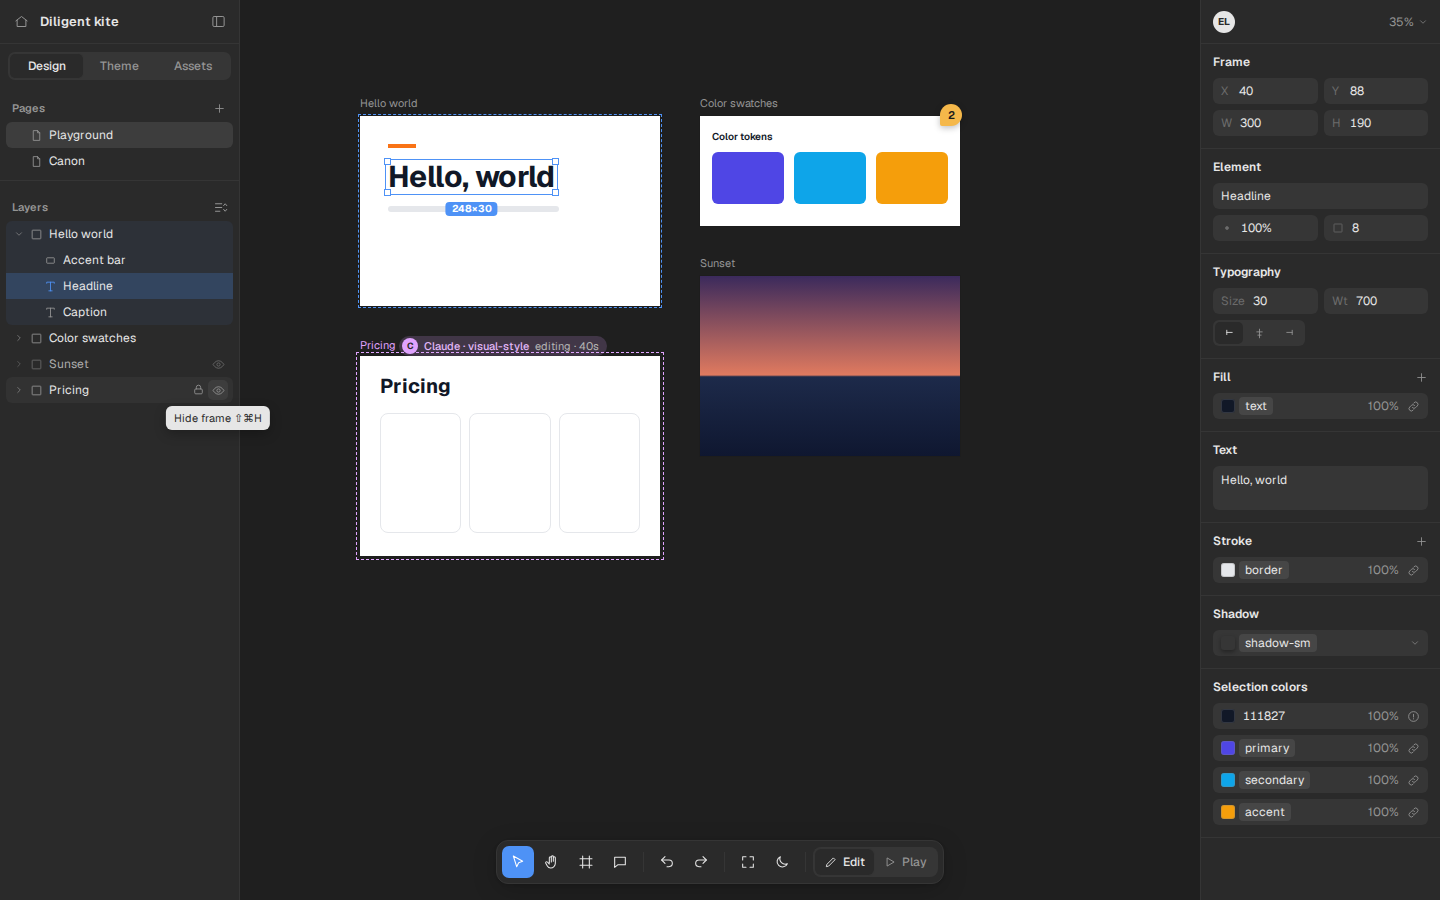
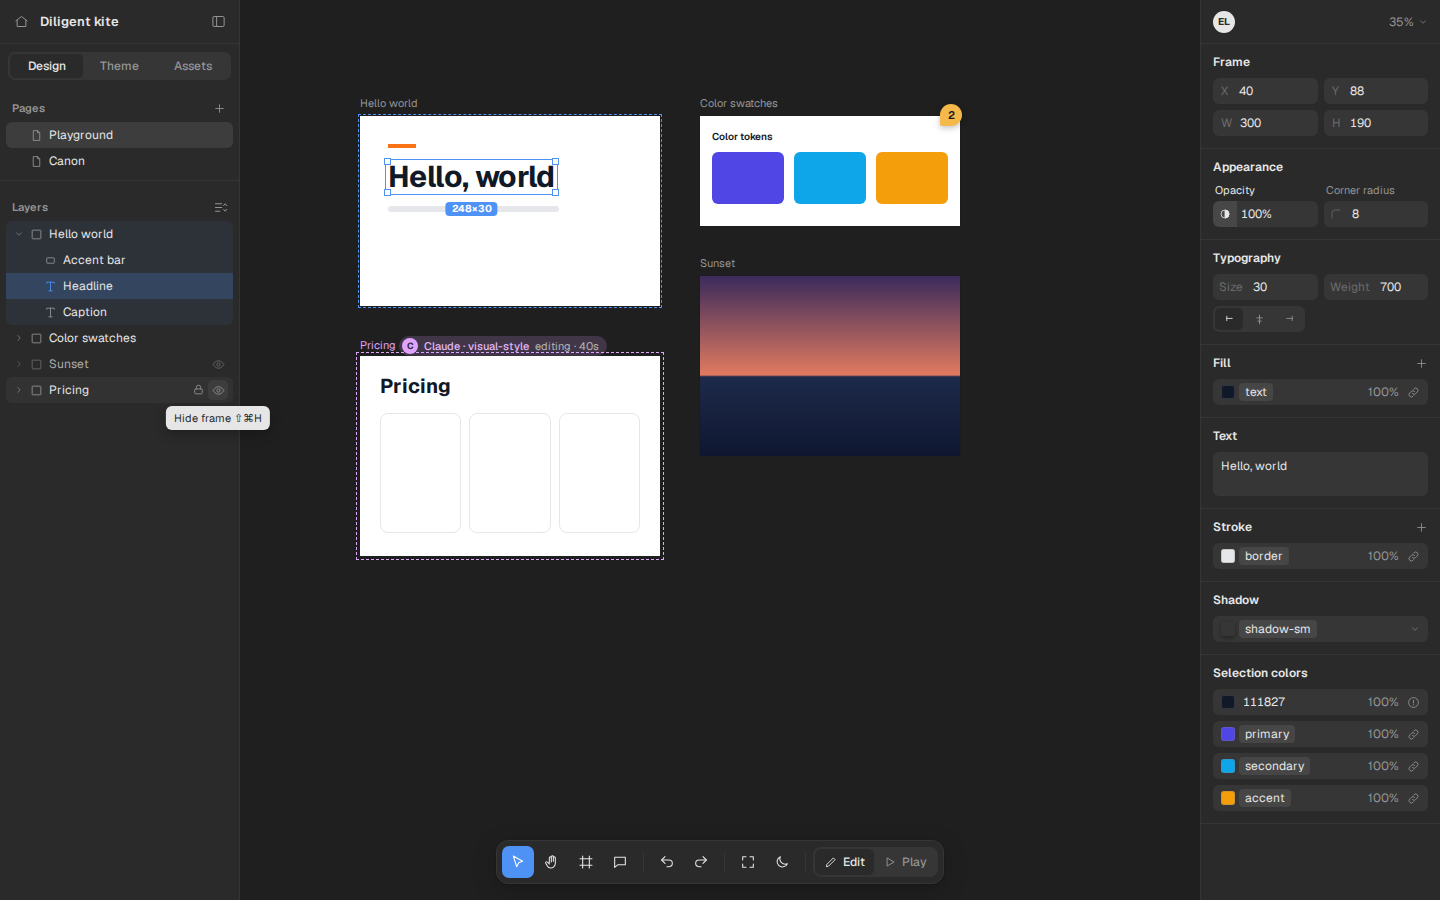
feat(design): redraw the inspector text state with Appearance

diff --git a/canon/design/inspector/text.html b/canon/design/inspector/text.html
@@ -557,6 +557,36 @@
         color: var(--text);
         font-variant-numeric: tabular-nums;
       }
+      .fld.z {
+        padding-left: 0;
+        gap: 0;
+      }
+      .fld.z .k {
+        align-self: stretch;
+        min-width: 24px;
+        padding: 0 6px;
+        display: flex;
+        align-items: center;
+        justify-content: center;
+        border-radius: 6px 0 0 6px;
+      }
+      .fld.z .k.hot {
+        background: color-mix(in srgb, var(--text) 10%, transparent);
+        color: var(--text);
+      }
+      .fld.z .v.g4 {
+        margin-left: 4px;
+      }
+      .cap {
+        display: block;
+        font-size: 11px;
+        font-weight: 400;
+        color: var(--muted);
+        margin: 0 0 4px 2px;
+      }
+      .cap.hot {
+        color: var(--text);
+      }
       .txtarea {
         min-height: 44px;
         padding: 6px 8px;
@@ -1612,54 +1642,59 @@
           </div>
         </div>
         <div class="isec">
-          <div class="ihead"><span>Element</span></div>
-          <label class="fld wide"><span class="v">Headline</span></label>
+          <div class="ihead"><span>Appearance</span></div>
           <div class="grid2">
-            <label class="fld"
-              ><span class="k"
-                ><svg
-                  class="ic"
-                  width="12"
-                  height="12"
-                  viewBox="0 0 24 24"
-                  fill="none"
-                  stroke="currentColor"
-                  stroke-width="1.6"
-                  stroke-linecap="round"
-                  stroke-linejoin="round"
-                >
-                  <circle
-                    cx="12"
-                    cy="12"
-                    r="3"
-                    fill="currentColor"
-                  /></svg></span
-              ><span class="v">100%</span></label
-            ><label class="fld"
-              ><span class="k"
-                ><svg
-                  class="ic"
-                  width="12"
-                  height="12"
-                  viewBox="0 0 24 24"
-                  fill="none"
-                  stroke="currentColor"
-                  stroke-width="1.6"
-                  stroke-linecap="round"
-                  stroke-linejoin="round"
-                >
-                  <rect x="4" y="4" width="16" height="16" rx="1" /></svg></span
-              ><span class="v">8</span></label
-            >
+            <div>
+              <span class="cap hot">Opacity</span
+              ><label class="fld z"
+                ><span class="k hot"
+                  ><svg
+                    class="ic"
+                    width="12"
+                    height="12"
+                    viewBox="0 0 24 24"
+                    fill="none"
+                    stroke="currentColor"
+                    stroke-width="1.6"
+                    stroke-linecap="round"
+                    stroke-linejoin="round"
+                  >
+                    <circle cx="12" cy="12" r="8" />
+                    <path
+                      d="M12 4a8 8 0 0 1 0 16z"
+                      fill="currentColor"
+                    /></svg></span
+                ><span class="v g4">100%</span></label
+              >
+            </div>
+            <div>
+              <span class="cap">Corner radius</span
+              ><label class="fld z"
+                ><span class="k"
+                  ><svg
+                    class="ic"
+                    width="12"
+                    height="12"
+                    viewBox="0 0 24 24"
+                    fill="none"
+                    stroke="currentColor"
+                    stroke-width="1.6"
+                    stroke-linecap="round"
+                    stroke-linejoin="round"
+                  >
+                    <path d="M4 20V10a6 6 0 0 1 6-6h10" /></svg></span
+                ><span class="v g4">8</span></label
+              >
+            </div>
           </div>
         </div>
         <div class="isec">
           <div class="ihead"><span>Typography</span></div>
           <div class="grid2">
-            <label class="fld"
-              ><span class="k">Size</span><span class="v">30</span></label
-            ><label class="fld"
-              ><span class="k">Wt</span><span class="v">700</span></label
+            <label class="fld z"
+              ><span class="k">Size</span><span class="v g4">30</span></label
+            ><label class="fld z"
+              ><span class="k">Weight</span><span class="v g4">700</span></label
             >
           </div>
           <div class="align">
